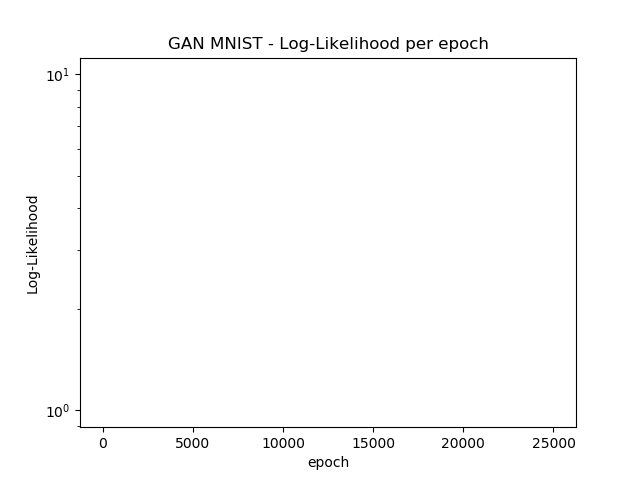
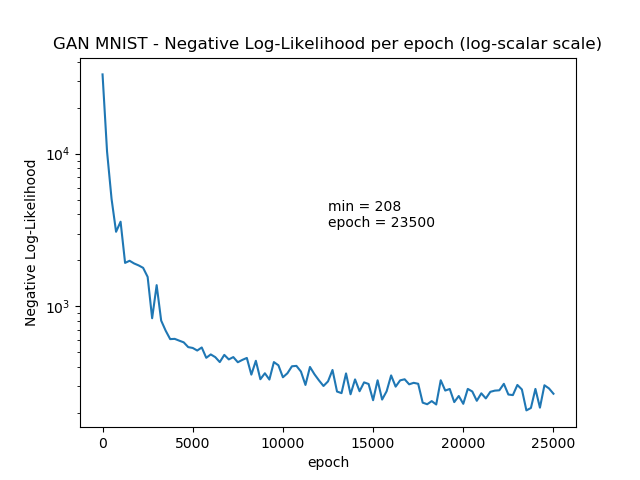
changing plot ll to nll with log-scalar scale

diff --git a/gan_pesquisa/parzen_logprob.py b/gan_pesquisa/parzen_logprob.py
@@ -18,10 +18,12 @@ def save_results(folder, x, lls_avg, lls_std):
 		writer.writerow(lls_std)
 
 	plt.clf()
-	plt.title("GAN MNIST - Log-Likelihood per epoch")
-	plt.ylabel('Log-Likelihood')
+	plt.title("GAN MNIST - Negative Log-Likelihood per epoch (log-scalar scale)")
+	plt.ylabel('Negative Log-Likelihood')
 	plt.xlabel('epoch')
-	plt.plot(x, lls_avg)
+	plt.yscale('log')
+	plt.text(max(x)/2,-min(lls_avg)/10,'min = ' + str(-int(max(lls_avg))) + '\nepoch = ' + str(x[np.array(lls_avg).argmax()]))
+	plt.plot(x, [-float(x) for x in lls_avg])
 	plt.savefig(os.path.join(folder, 'll.png'))
 	# plt.show()
 
